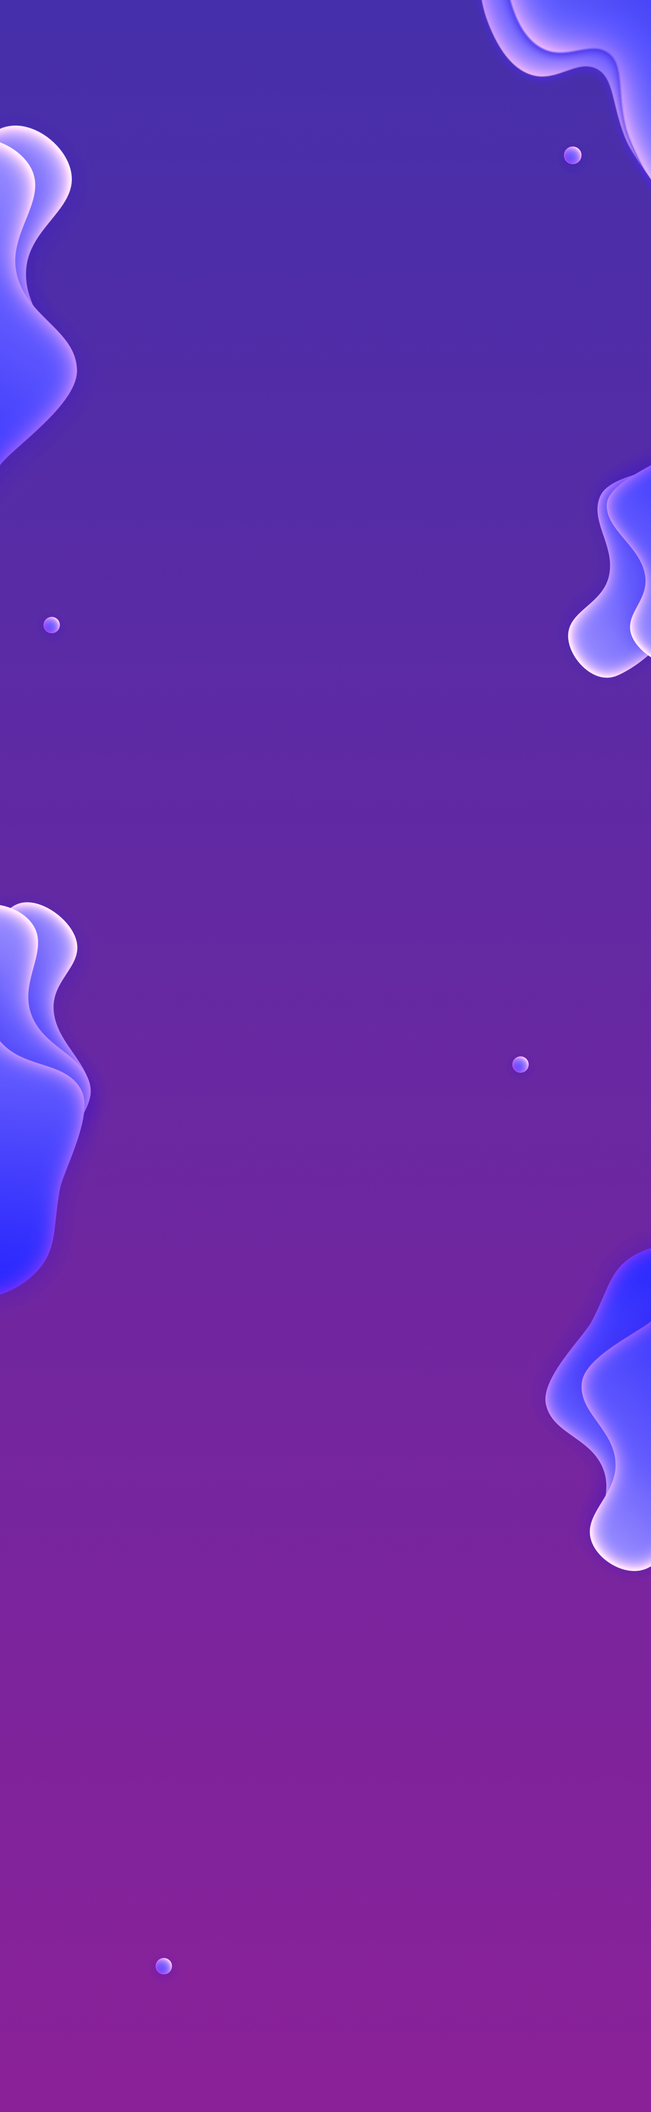
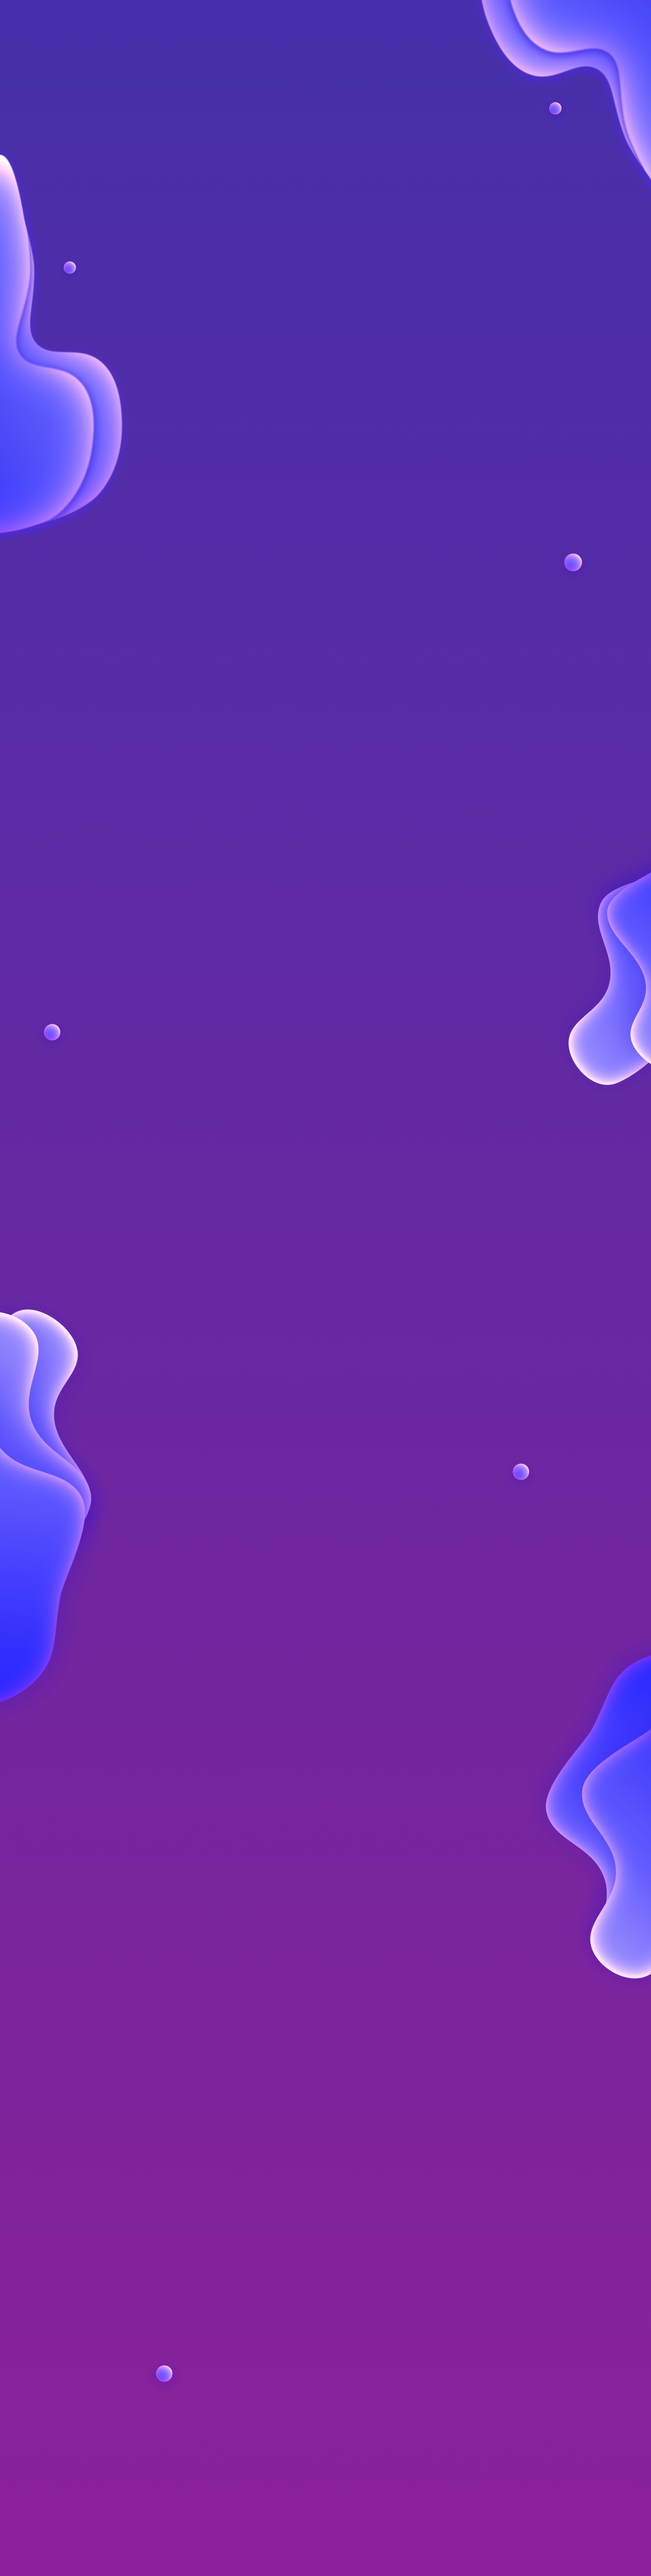
first page almost done

diff --git a/index.html b/index.html
@@ -34,7 +34,9 @@
   <section class="gradient_background">
       <nav>
         <div id="nav">
-          <img id="shift" onclick="window.location.href = 'index.html';" src="images/Logo.png" alt="logo">
+          <div id="logo">
+            <img id="shift" onclick="window.location.href = 'index.html';" src="images/Logo.png" alt="logo">
+          </div>
           <div id="menu">
             
             <div id="menu_nav">
@@ -58,13 +60,16 @@
         </div>
       </nav>
 <main>
-      <div id="scene" class="hero">
-        <img data-depth="0" src="images/SHIFT JUST GOT REAL.png" id="got" alt="shift just got real">
-        <img data-depth="0" src="images/1ST, 2ND AND 3RD APRIL.png" id="1" alt="1st, 2nd and 3rd april">
+      <!--<div id="scene" class="hero">
         <img data-depth="0.5" src="images/tigre1.png" id="tiger1" alt="tigre">
         <img data-depth="0" src="images/tigre2.png" id="tiger2" alt="tigre">
-      </div>
+      </div>-->
       
+      <div id="titles">
+        <h1>SHIFT JUST GOT REAL</h1>
+        <h3>1ST, 2ND AND 3RD APRIL</h3>
+      </div>
+
   </section>
 
   <div class="bubbles_background">
@@ -131,8 +136,13 @@
               <p>Any student, professional or enthusiast can be part of it! You can team up with your closest friends, your family, your co-workers, someone who’s willing to put their heart and soul into this adventure!</p>
             </div>
           </div>
+          
+        </div>
+
+        <div id="button_see_more">
           <a id="button" href="faq.html">See more</a>
         </div>
+
       </div>
     </section>
 <div id="partners">
@@ -145,16 +155,16 @@
           
           <div class="partners">
             <div class="partner-section diamond">
-              <a  href="https://dei.uc.pt/FirstFoundation/" target="_blank" ><img src="images/partners/first-foundation.png"></a>
+              <a href="https://dei.uc.pt/FirstFoundation/" target="_blank" ><img class="diamond-img" src="images/partners_index/first-foundation.png"></a>
             </div>
             <div class="partner-section gold">
-              <a href="https://mindera.com/" target="_blank"><img src="images/partners/mindera.png"></a>
+              <a href="https://mindera.com/" target="_blank"><img class="gold-img" src="images/partners_index/mindera.png"></a>
             </div>
             <div class="partner-section silver">
-              <a class="silver" href="" target="_blank"><img src="images/partners/nada.png"></a>
+              <a class="silver" href="" target="_blank"><img class="silver-img" src="images/partners_index/silver.png"></a>
             </div>
               <div class="partner-section bronze">
-                <a class="bronze" href="https://www2.deloitte.com/pt/pt.html" target="_blank"><img src="images/partners/deloitte.png"></a>
+                <a class="bronze" href="https://www2.deloitte.com/pt/pt.html" target="_blank"><img class="bronze-img" src="images/partners_index/deloitte.png"></a>
             </div>
           </div>
         </div>
@@ -200,43 +210,46 @@
   </div>
 </main>
   <footer>
-    <div class="contact">
+    <div class="footer-div">
+
+      <div class="contact">
         <h3>Contact us</h3>
         <p>+351 913 847 824
-        <br> +351 964 302 766
-        <br>shiftappens@gmail.com</p>
-    </div>
-
-    <div class="social">
-      <div class="social_img">
-        <a class="social_i" href="https://twitter.com/shiftappens"> <img src="images/twitter.svg" alt="logo_twitter"> </a>
-        <a class="social_i" href="https://facebook.com/shiftappens21"> <img src="images/facebook.svg" alt="logo_facebook"> </a>
-        <img id="shift_icon" onclick="window.location.href = 'index.html';" src="images/logo_icon.png" alt="logo">
-        <a class="social_i" href="https://www.instagram.com/shiftappens"> <img src="images/insta.svg"alt="logo_instagram"> </a>
-        <a class="social_i" href="https://www.linkedin.com/company/shift-appens"> <img src="images/linkedin.svg"alt="logo_linkedin"> </a>
+          <br> +351 964 302 766
+          <br>shiftappens@gmail.com</p>
       </div>
-
-      <!--
-
-        <div class="social_text">
-          <a href="index.html">GO TO TOP</a>
-          <a href="faq.html">FAQ</a>
-          <a href="past.html">PAST</a>
-          <a href="about.html">ABOUT US</a>
-        </div>
-      -->
       
-    </div>
-
-    <div class="made">
+      <div class="social">
+        <div class="social_img">
+          <a class="social_i" href="https://twitter.com/shiftappens"> <img src="images/twitter.svg" alt="logo_twitter"> </a>
+          <a class="social_i" href="https://facebook.com/shiftappens21"> <img src="images/facebook.svg" alt="logo_facebook"> </a>
+          <img id="shift_icon" onclick="window.location.href = 'index.html';" src="images/logo_icon.png" alt="logo">
+          <a class="social_i" href="https://www.instagram.com/shiftappens"> <img src="images/insta.svg"alt="logo_instagram"> </a>
+          <a class="social_i" href="https://www.linkedin.com/company/shift-appens"> <img src="images/linkedin.svg"alt="logo_linkedin"> </a>
+        </div>
+        
+        <!--
+          
+          <div class="social_text">
+            <a href="index.html">GO TO TOP</a>
+            <a href="faq.html">FAQ</a>
+            <a href="past.html">PAST</a>
+            <a href="about.html">ABOUT US</a>
+          </div>
+        -->
+        
+      </div>
+      
+      <div class="made">
         <div class="made_img">
           <img src="images/nei.svg" onclick="window.location.href = 'https://nei.dei.uc.pt'" alt="logo_nei">
           <img src="images/jeK.svg" onclick="window.location.href = 'https://jeknowledge.pt'" alt="logo_jek">
         </div>
         <p>Made with <a style="text-decoration: underline;">love</a> by us</p>
+      </div>
     </div>
   </footer>
-
+  
   
 </body>
 <script>

diff --git a/css/index.css b/css/index.css
@@ -1,3 +1,11 @@
+body{
+  background-image: url("../images/fundo.png");
+  background-repeat: no-repeat;
+  background-size: cover;
+  width: 100vw;
+  height: 100%;
+}
+
 
 /* TIGRE E TEXTO*/
 .hero {
@@ -11,7 +19,7 @@
 .gradient_background {
   width: 100vw;
   height: 100vh;
-  background-image: url("../images/background-face.png");
+  /*background-image: url("../images/background-face.png");*/
   background-repeat: no-repeat;
   background-size: cover;
 }
@@ -53,7 +61,7 @@
 /* MAIN */
 
 .bubbles_background {
-  background-image: url("../images/Fundo.png");
+  /*background-image: url("../images/Fundo.png");*/
   z-index: -2;
 }
 
@@ -111,6 +119,11 @@
   
 }
 
+/*TITULOS PRINCIPAIS*/
+#titles{
+  text-align: center;
+}
+
 /* PARTNERS */
 .partners h2{
   font-size: 2rem;
@@ -126,7 +139,23 @@
 }
 
 .partner-section img{
-  width: 20%;
+  width: 70%;
+}
+
+.diamond-img{
+  filter: drop-shadow(0px 0px 100px rgba(103, 146, 255, 0.6));
+}
+
+.gold-img{
+  filter: drop-shadow(0px 0px 100px #C3912F);
+}
+
+.silver-img{
+  filter: drop-shadow(0px 0px 100px rgba(0, 0, 0, 0.4));
+}
+
+.bronze-img{
+  filter: drop-shadow(0px 0px 100px #AD5F22);
 }
 
 /*TITULOS OUTLINE*/
@@ -162,6 +191,7 @@
 #faq_title a:hover{
   cursor: pointer;
   text-shadow: 0px 0px 18px #7D6AE4;transition: 0.3s;
+
 }
 
 .cont_faq{
@@ -204,14 +234,24 @@
 }
 
 
-.content-text #button{
+.cont #button{
   background: linear-gradient(90deg, #7F45F9 0%, #2131C3 100%);
   border: 2px solid #DFC6FF;
-  box-sizing: border-box;
+  /*box-sizing: border-box;*/
   border-radius: 10px;
+  /*text-align: right;*/
+  line-height: 400%;
+  padding:1.5vh 3vw;
+  width: 10vw;
+  transition: background 1s ease;
+}
+
+#button_see_more{
   text-align: right;
-  line-height: 300%;
-  width: 20%;
+}
+
+.cont #button:hover{
+  background: linear-gradient(90deg, #AB00E7 0%, #FFB26A 100%);
 }
 
 /* NEWSLETTER */

diff --git a/css/base.css b/css/base.css
@@ -27,7 +27,7 @@ html {
 
 body {
     width: 100vw;
-    background-color: #b215c6;
+    /*background-color: #b215c6;*/
     overflow-x: hidden; 
 }
 
@@ -66,16 +66,24 @@ li{
     grid-template-columns: 1fr 1.3fr;
     background-color: var(--color-white);
     box-sizing: border-box;
-    align-items: center;
+    /*align-items: center;*/
 }
+/*
 #nav img{
   cursor: pointer;
   align-self: center;
   margin:auto;
 }
+*/
+
+#logo{
+  text-align: left;
+  margin: auto;
+}
 
 #shift{
-  align-self: start;
+  cursor: pointer;
+  margin-left: 10%;
   width: 13%;
 }
 
@@ -94,15 +102,16 @@ li{
   }
 
 #menu{
-  margin:auto 3%;
+  margin:auto 10%;
   display: flex;
   justify-content: space-between;
-  align-items: center;
+  /*align-items: right;*/
+  justify-content: right;
 }
 #menu_nav{
   display: flex;
   justify-content: space-between;
-  width: 70%;
+  width: 100%;
 }
 
 
@@ -142,11 +151,24 @@ li{
 footer{
   background-image: url("../images/footer.png");
   width: 100vw;
+  /*display: flex;
+  box-sizing: border-box;
+  justify-content: space-between;
+  align-items: flex-end;*/
+  padding: 5% 10%;
+  object-fit: cover;
+  background-repeat: no-repeat;
+  background-size: cover;
+}
+
+.footer-div{
+  object-fit: cover;
   display: flex;
+  padding-right: 25%;
+  padding-top: 10%;
   box-sizing: border-box;
   justify-content: space-between;
   align-items: flex-end;
-  padding: 5% 10%;
 }
 
 .contact , .social , .made{
@@ -279,6 +301,7 @@ footer{
     top:0;
     left:0;
     height: 100vh;
+    text-align: right;
   }
   
   #menu a{
